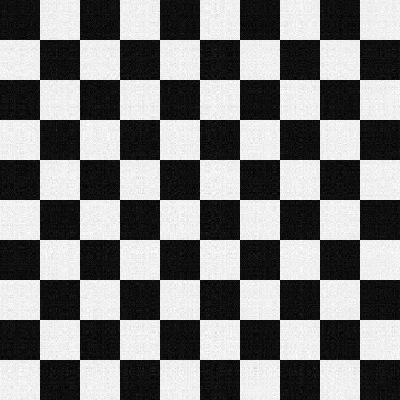
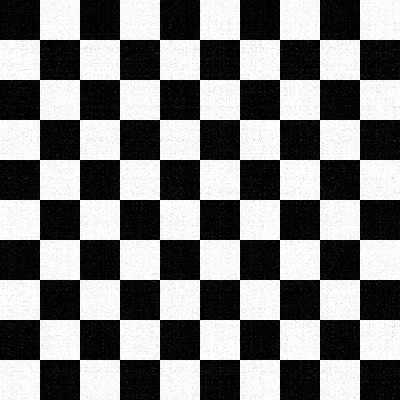
remove clamping before svd and upd results/readme

diff --git a/challenge.cpp b/challenge.cpp
@@ -179,13 +179,11 @@ int main(int argc, char **argv) {
 
     //Task 9
     MatrixXd noisy_checkerboard = checkerboard;
-    
+
     for(int i = 0; i < noisy_checkerboard.rows(); i++) {
         for(int j = 0; j < noisy_checkerboard.cols(); j++) {
             double noise = ((double)rand() / RAND_MAX) * 120 - 60;
             noisy_checkerboard(i, j) += noise;
-            if(noisy_checkerboard(i, j) < 0) noisy_checkerboard(i, j) = 0; 
-            if(noisy_checkerboard(i, j) > 255) noisy_checkerboard(i, j) = 255;
         }
     }
 
@@ -202,7 +200,7 @@ int main(int argc, char **argv) {
 
 
 
-    // Task 10: SVD of the noisy image, after clipping pixels to [0, 255].
+    // Task 10: SVD of the noisy image
     JacobiSVD<MatrixXd> noisySvd(noisy_checkerboard, ComputeThinU | ComputeThinV);
     if (noisySvd.info() != Success) {
         fprintf(stderr, "Error computing the SVD of the noisy checkerboard\n");

diff --git a/README.md b/README.md
@@ -22,8 +22,8 @@ Place `deer.jpg` in the project directory. Run `challenge` from that directory. 
 6. Form `C = U_k` and `D = V_k Sigma_k` for `k = 30` and `k = 90`, and report their nonzero entry counts.
 7. Reconstruct the deer image with `k = 30, 90` and export `compressed_image_1.png` and `compressed_image_2.png`.
 8. Create a 400 × 400 checkerboard with 40 × 40 squares, report its Frobenius norm, and save `checkerboard.png`.
-9. Add random noise in `[-60, 60]`, clip the noisy pixels to `[0, 255]`, and save `noisy_checkerboard.png`.
-10. Compute the thin SVD of the clipped floating-point noisy matrix and report its two largest singular values.
+9. Add random noise in `[-60, 60]` and save `noisy_checkerboard.png`
+10. Compute the thin SVD of the unclipped floating-point noisy matrix and report its two largest singular values.
 11. Form C and D for `k = 6, 12` and report their dimensions: both are 400 × 6 or 400 × 12, respectively.
 12. Export `compressed_checkerboard_k6.png` and `compressed_checkerboard_k12.png`.
 13. Compare the reconstructions with the original and noisy checkerboards using RMSE and the discussion below.
@@ -75,14 +75,14 @@ The program does not seed `rand()`, so runs are repeatable with the same C runti
 Measured in the course container (`quay.io/pjbaioni/amsc_mk:2025`):
 
 - Original checkerboard Frobenius norm: **72124.891681**.
-- Largest noisy-image singular values: **51012.027685599613** and **45010.442702636152**.
+- Largest noisy-image singular values: **51011.909045898668** and **51002.421720600963**.
 - At `k = 6`, C and D are both **400 × 6**; at `k = 12`, both are **400 × 12**.
 
 | Image / reconstruction | RMSE versus original | RMSE versus noisy matrix |
 | --- | ---: | ---: |
-| Noisy checkerboard | 24.459253292664 | 0 |
-| Rank 6 | 15.565789637580 | 18.866975307764 |
-| Rank 12 | 16.187107230792 | 18.336692794053 |
+| Noisy checkerboard | 34.586243358632 | 0 |
+| Rank 6 | 7.513007859763 | 33.760514094702 |
+| Rank 12 | 10.934733714287 | 32.812322131300 |
 
 Both reconstructions visibly suppress the speckled noise and retain the square boundaries. The rank-6 image is smoother and closer to the clean original. Rank 12 better approximates the noisy matrix, as expected from truncated SVD, but retains more noise and therefore has a slightly larger error against the clean original. The remaining loss of contrast (dark gray instead of pure black, light gray instead of pure white) is consistent with the clipping bias. Increasing the rank improves approximation of the input; it does not necessarily improve denoising.
 
